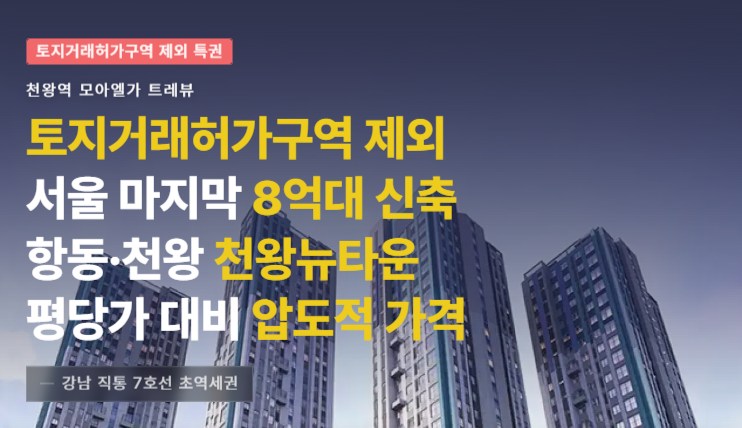
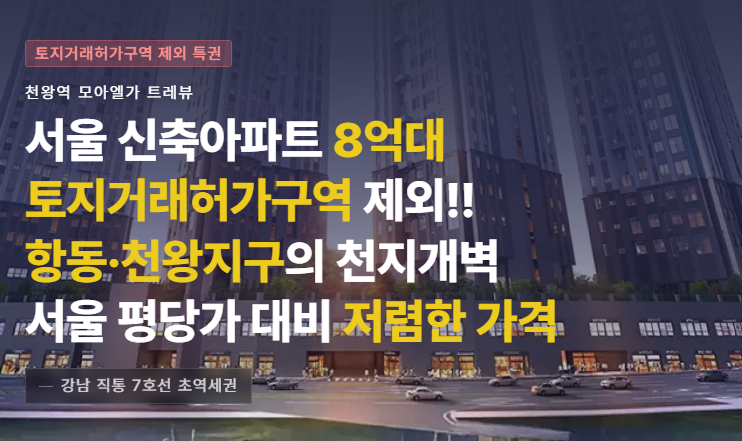
feat: 천왕역 모아엘가 히어로 섹션 수정

diff --git a/mobile-scroll/data/sites/cheonwang-moaelga-treview.js b/mobile-scroll/data/sites/cheonwang-moaelga-treview.js
@@ -61,10 +61,10 @@ const config = {
     eyebrow:       "토지거래허가구역 제외 특권",
     eyebrowUrgent: 2,
     brand:         "천왕역 모아엘가 트레뷰",
-    title:         "토지거래허가구역 제외\n서울 마지막 8억대 신축\n항동·천왕 천왕뉴타운\n평당가 대비 압도적 가격",
+    title:         "서울 신축아파트 8억대\n 토지거래허가구역 제외!!\n항동·천왕지구의 천지개벽\n서울 평당가 대비 저렴한 가격",
     subtitle:      "강남 직통 7호선 초역세권",
     bgColor:       " #233E7A",
-    accentKeyword:  ["토지거래허가구역 제외","8억대 신축", "천왕뉴타운", "압도적 가격"],
+    accentKeyword:  ["8억대","토지거래허가구역", "항동·천왕지구", "저렴한 가격"],
     image: {
       src:    "/apt/cheonwang-moaelga-treview/1.webp",
       alt:    "천왕역 모아엘가 트레뷰 대표 이미지",
@@ -181,7 +181,7 @@ const config = {
     // 히어로 메인 타이틀
     title: {
       color:       "#ffffff",
-      fontSize:    "clamp(1.6rem,9vw,3rem)",
+      fontSize:    "clamp(1.5rem,7vw,3rem)",
       accentColor: "#edcc1e",
     },
     // 히어로 서브타이틀
